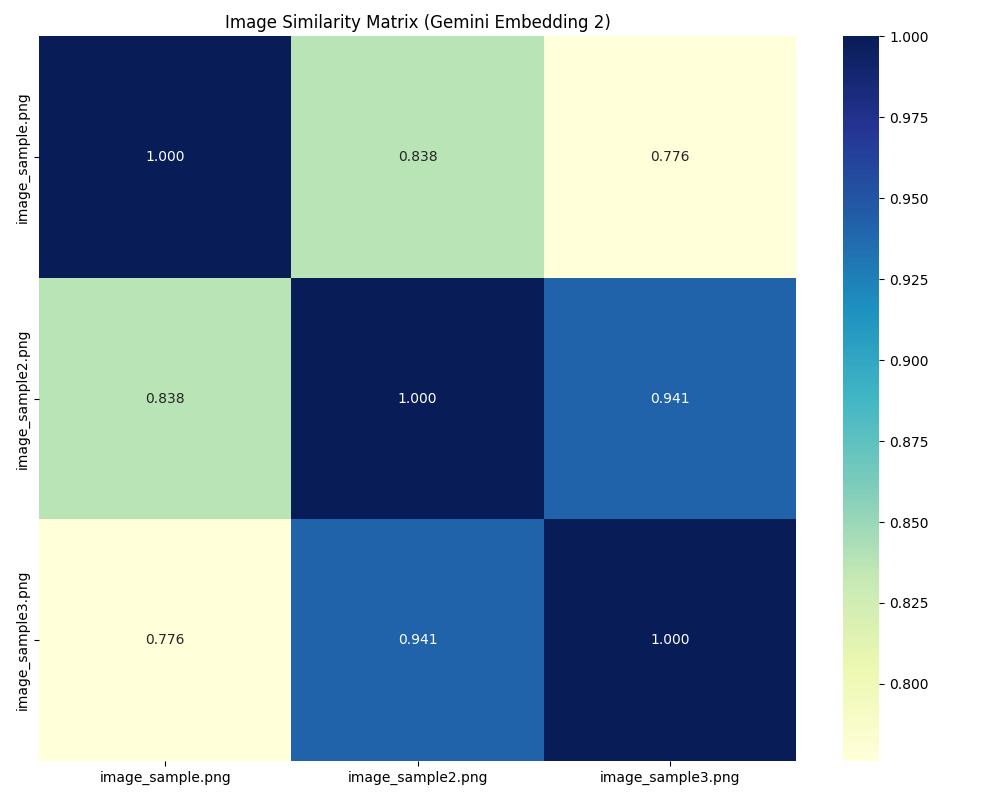
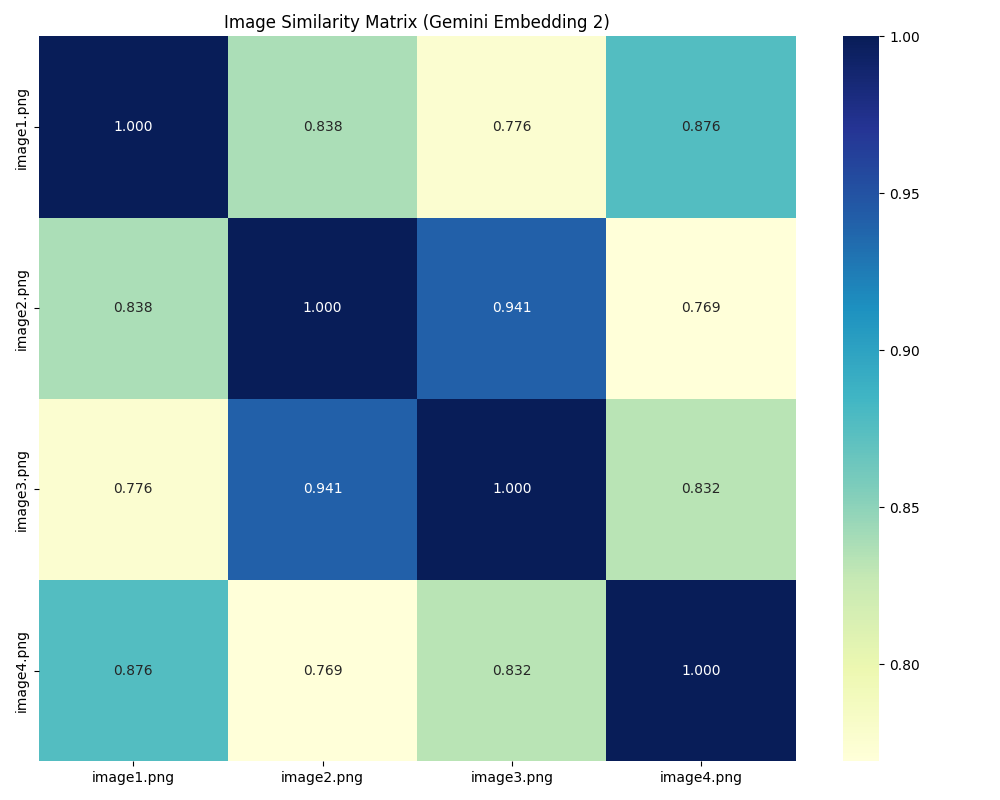
feat: Replace old sample images with new ones and update the image similarity calculation script and its output.

diff --git a/gemini_embedding2_test/image_matrix_similarity.py b/gemini_embedding2_test/image_matrix_similarity.py
@@ -43,9 +43,10 @@ def get_embedding(image_path):
 def main():
     # 比較する画像のリストをユーザー指定のものに固定
     image_files = [
-        "image_sample.png",
-        "image_sample2.png",
-        "image_sample3.png"
+        "image1.png",
+        "image2.png",
+        "image3.png",
+        "image4.png",
     ]
     
     # 実際に存在するファイルのみに絞り込む
